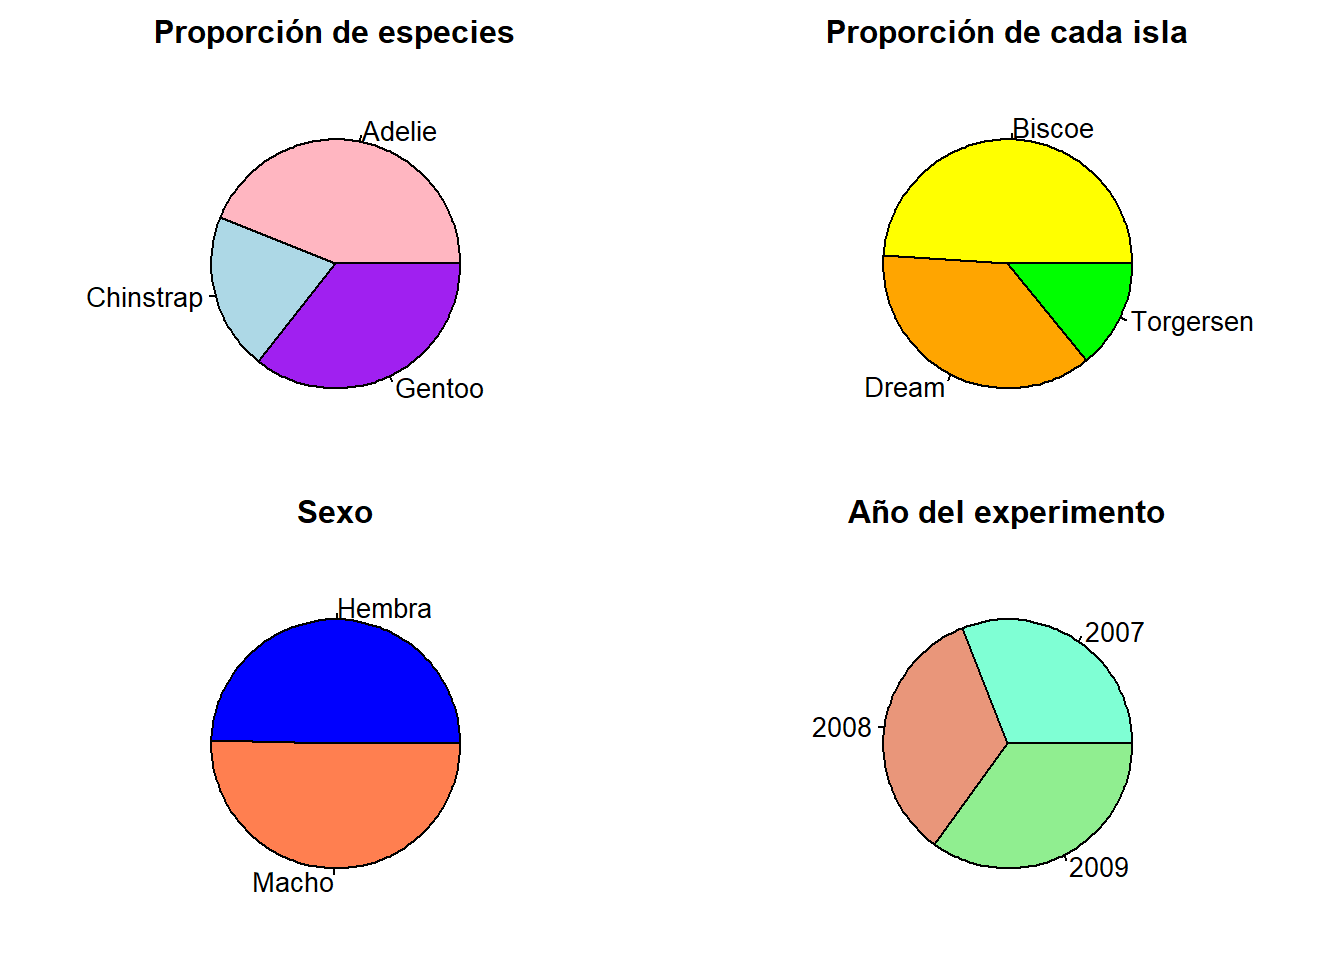
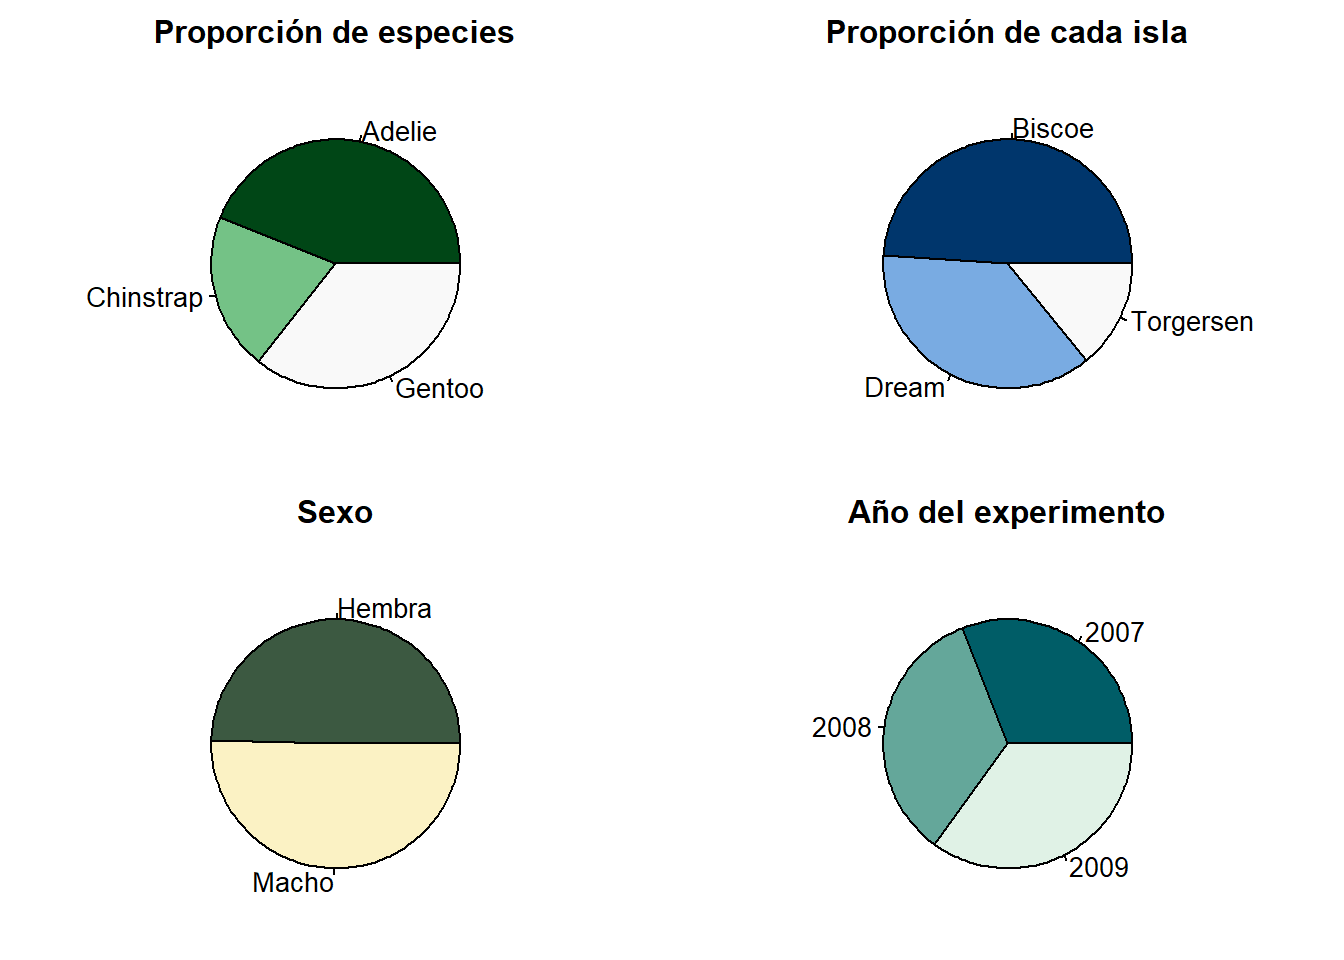
cambio colores pie y tamaño visualizacion

diff --git a/prueba.html b/prueba.html
@@ -208,15 +208,14 @@ pre > code.sourceCode > span > a:first-child::before { text-decoration: underlin
 <div class="cell">
 <div class="sourceCode cell-code" id="cb8"><pre class="sourceCode r code-with-copy"><code class="sourceCode r"><span id="cb8-1"><a href="#cb8-1" aria-hidden="true" tabindex="-1"></a><span class="fu">par</span>(<span class="at">plt =</span> <span class="fu">c</span>(<span class="fl">0.1</span>, <span class="fl">0.9</span>, <span class="fl">0.1</span>, <span class="fl">0.8</span>))</span>
 <span id="cb8-2"><a href="#cb8-2" aria-hidden="true" tabindex="-1"></a><span class="fu">par</span>(<span class="at">mfrow=</span><span class="fu">c</span>(<span class="dv">2</span>,<span class="dv">2</span>))</span>
-<span id="cb8-3"><a href="#cb8-3" aria-hidden="true" tabindex="-1"></a><span class="fu">pie</span>(<span class="fu">prop.table</span>(<span class="fu">table</span>(datos<span class="sc">$</span>species)),<span class="at">col =</span> <span class="fu">c</span>(<span class="st">"lightpink"</span>,<span class="st">"lightblue"</span>,<span class="st">"purple"</span>), <span class="at">main =</span> <span class="st">"Proporción de especies"</span>)</span>
-<span id="cb8-4"><a href="#cb8-4" aria-hidden="true" tabindex="-1"></a><span class="fu">pie</span>(<span class="fu">prop.table</span>(<span class="fu">table</span>(datos<span class="sc">$</span>island)),<span class="at">col =</span> <span class="fu">c</span>(<span class="st">"yellow"</span>,<span class="st">"orange"</span>,<span class="st">"green"</span>), <span class="at">main =</span> <span class="st">"Proporción de cada isla"</span>)</span>
-<span id="cb8-5"><a href="#cb8-5" aria-hidden="true" tabindex="-1"></a><span class="fu">pie</span>(<span class="fu">prop.table</span>(<span class="fu">table</span>(datos<span class="sc">$</span>sex)), <span class="at">labels =</span> <span class="fu">c</span>(<span class="st">"Hembra"</span>, <span class="st">"Macho"</span>), <span class="at">col =</span> <span class="fu">c</span>(<span class="st">"blue"</span>,<span class="st">"coral"</span>), <span class="at">main =</span> <span class="st">"Sexo"</span>)</span>
-<span id="cb8-6"><a href="#cb8-6" aria-hidden="true" tabindex="-1"></a><span class="fu">pie</span>(<span class="fu">prop.table</span>(<span class="fu">table</span>(datos<span class="sc">$</span>year)),<span class="at">col =</span> <span class="fu">c</span>(<span class="st">"aquamarine"</span>,<span class="st">"darksalmon"</span>,<span class="st">"lightgreen"</span>), <span class="at">main =</span> <span class="st">"Año del experimento"</span>)</span></code><button title="Copy to Clipboard" class="code-copy-button"><i class="bi"></i></button></pre></div>
+<span id="cb8-3"><a href="#cb8-3" aria-hidden="true" tabindex="-1"></a><span class="fu">pie</span>(<span class="fu">prop.table</span>(<span class="fu">table</span>(datos<span class="sc">$</span>species)),<span class="at">col =</span> <span class="fu">hcl.colors</span>(<span class="dv">3</span>, <span class="st">"Greens 3"</span>), <span class="at">main =</span> <span class="st">"Proporción de especies"</span>)</span>
+<span id="cb8-4"><a href="#cb8-4" aria-hidden="true" tabindex="-1"></a><span class="fu">pie</span>(<span class="fu">prop.table</span>(<span class="fu">table</span>(datos<span class="sc">$</span>island)),<span class="at">col =</span> <span class="fu">hcl.colors</span>(<span class="dv">3</span>, <span class="st">"Blues 3"</span>), <span class="at">main =</span> <span class="st">"Proporción de cada isla"</span>)</span>
+<span id="cb8-5"><a href="#cb8-5" aria-hidden="true" tabindex="-1"></a><span class="fu">pie</span>(<span class="fu">prop.table</span>(<span class="fu">table</span>(datos<span class="sc">$</span>sex)), <span class="at">labels =</span> <span class="fu">c</span>(<span class="st">"Hembra"</span>, <span class="st">"Macho"</span>), <span class="at">col =</span> <span class="fu">hcl.colors</span>(<span class="dv">3</span>, <span class="st">"Fall"</span>), <span class="at">main =</span> <span class="st">"Sexo"</span>)</span>
+<span id="cb8-6"><a href="#cb8-6" aria-hidden="true" tabindex="-1"></a><span class="fu">pie</span>(<span class="fu">prop.table</span>(<span class="fu">table</span>(datos<span class="sc">$</span>year)),<span class="at">col =</span> <span class="fu">hcl.colors</span>(<span class="dv">3</span>, <span class="st">"Mint"</span>), <span class="at">main =</span> <span class="st">"Año del experimento"</span>)</span></code><button title="Copy to Clipboard" class="code-copy-button"><i class="bi"></i></button></pre></div>
 <div class="cell-output-display">
 <p><img src="prueba_files/figure-html/unnamed-chunk-4-1.png" class="img-fluid" width="672"></p>
 </div>
 </div>
-<p>Observamos que hay el mismo número de machos que hembras, este hecho indica que seguramente se ha realizado un muestreo estratificado ya que la población ha sido dividida en dos estratos (machos y hembras).</p>
 </section>
 <section id="histogramas" class="level3">
 <h3 class="anchored" data-anchor-id="histogramas">Histogramas</h3>
@@ -337,7 +336,7 @@ pre > code.sourceCode > span > a:first-child::before { text-decoration: underlin
 <section id="comparaciones-geográficas" class="level1">
 <h1>Comparaciones geográficas</h1>
 <p>Una vez hemos estudiado las medias de los valores cuantitativos de las características de los pingüinos, podemos ver si hay diferencias entre islas.</p>
-<p>PENSAR BÉ COM ENFOCAR-HO, ES A DIR, SERIA INTERESSANT VEURE QUINES DADES TENEN MAJOR DISPERSIÓ PER ESTUDIAR SI AFECTA GEOGRAFICAMENT, IE, IMAGINA QUE SURT QUE ES PINGÜINOS GENTOO TENEN ES BEC MES LLARG I A MES MOSTREN DISPERSIO EN SES DADES, PUES POT SER QUE A UNA ILLA, PER ES TIPUS DE MENJAR, TENGUIN ES BEC ME LLARG O MES CURT I FACI ALTERAR SA MITJANA</p>
+<p>PENSAR BÉ COM ENFOCAR-HO, ES A DIR, SERIA INTERESSANT VEURE QUINES DADES TENEN MAJOR DISPERSIÓ PER ESTUDIAR SI AFECTA GEOGRAFICAMENT, IE, IMAGINA QUE SURT QUE ES PINGÜINOS GENTOO TENEN ES BEC MES LLARG I A MES MOSTREN DISPERSIO EN SES DADES, PUES POT SER QUE A UNA ILLA, PER ES TIPUS DE MENJAR, TENGUIN ES BEC MES LLARG O MES CURT I FACI ALTERAR SA MITJANA</p>
 <p><strong>Nota:</strong> las conclusiones extraidas sobre las medias no pueden extrapolarse a toda la población.</p>
 </section>
 
